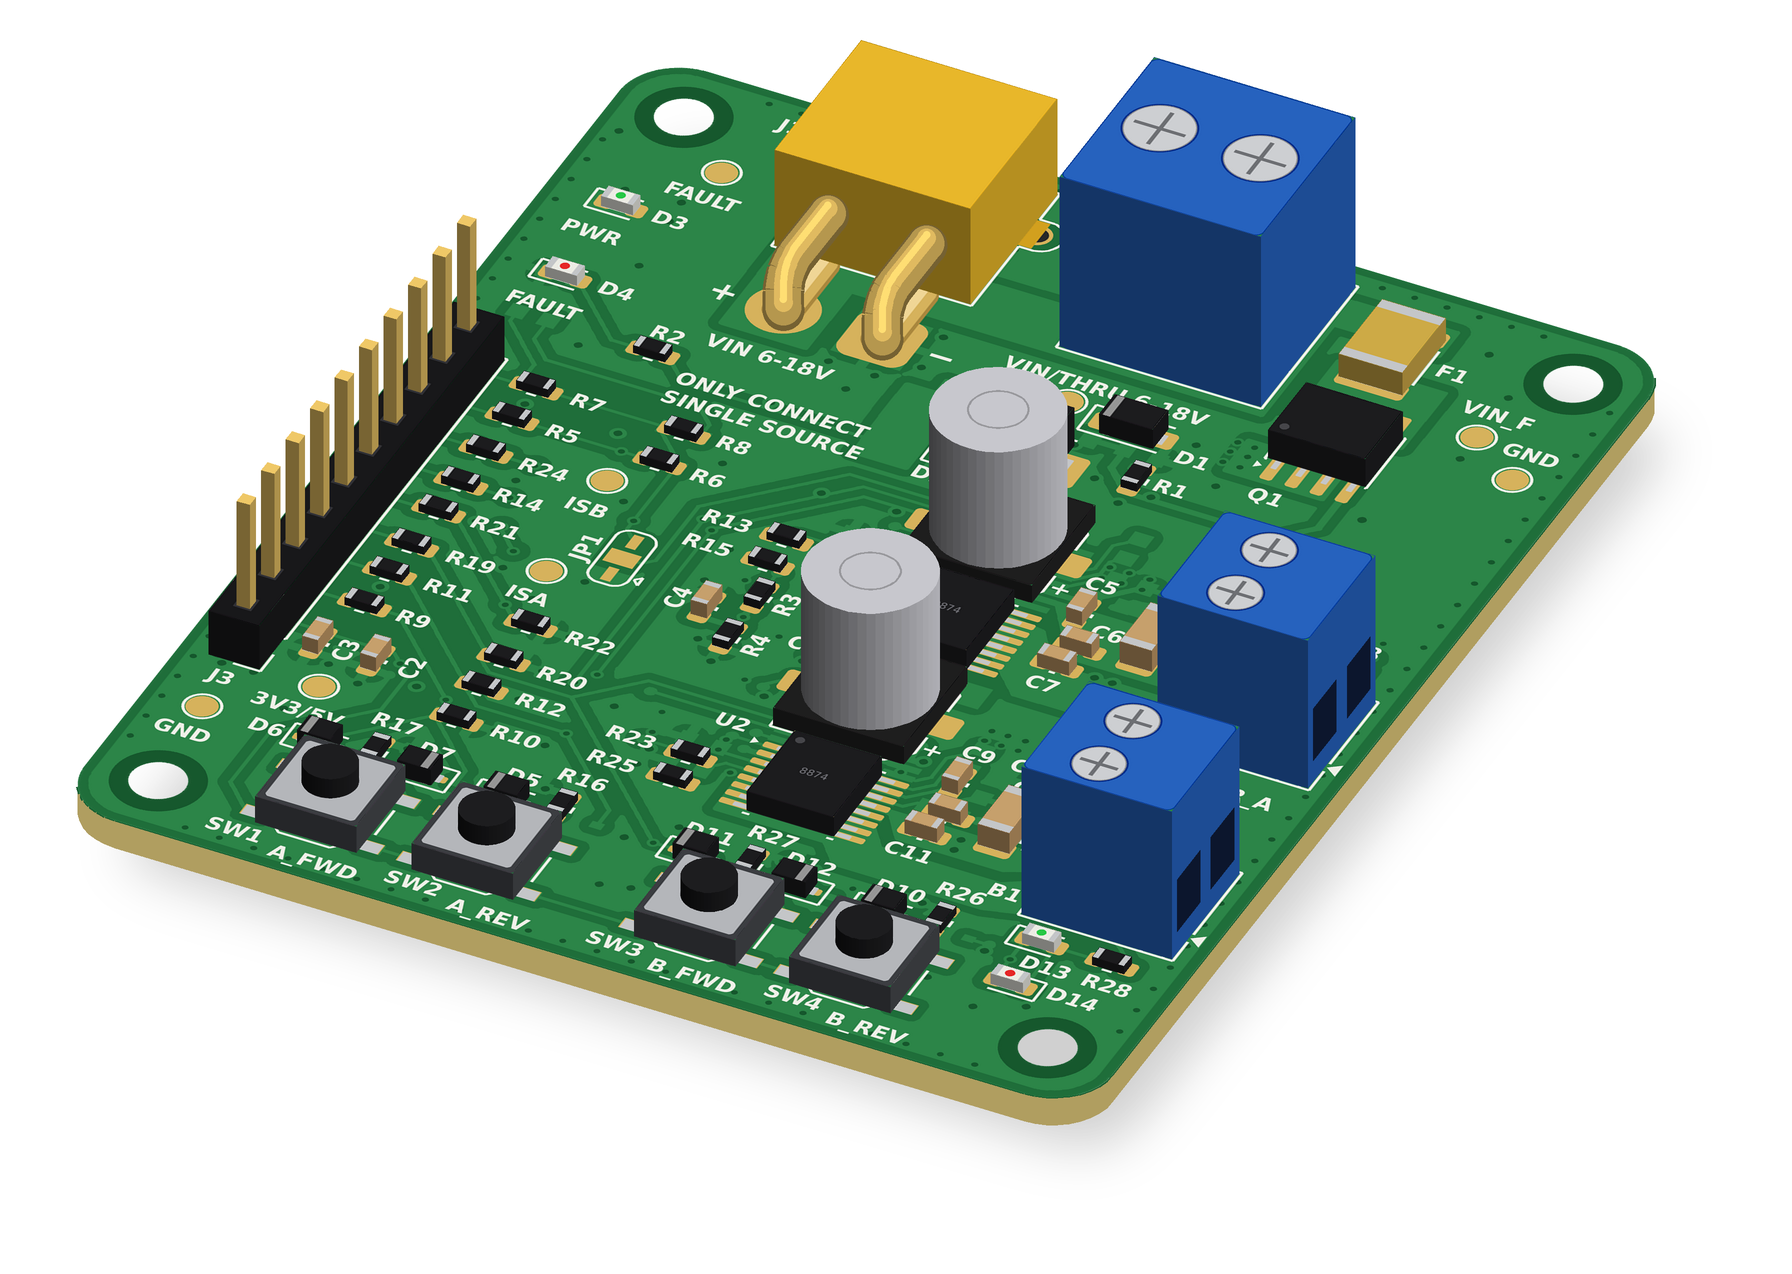
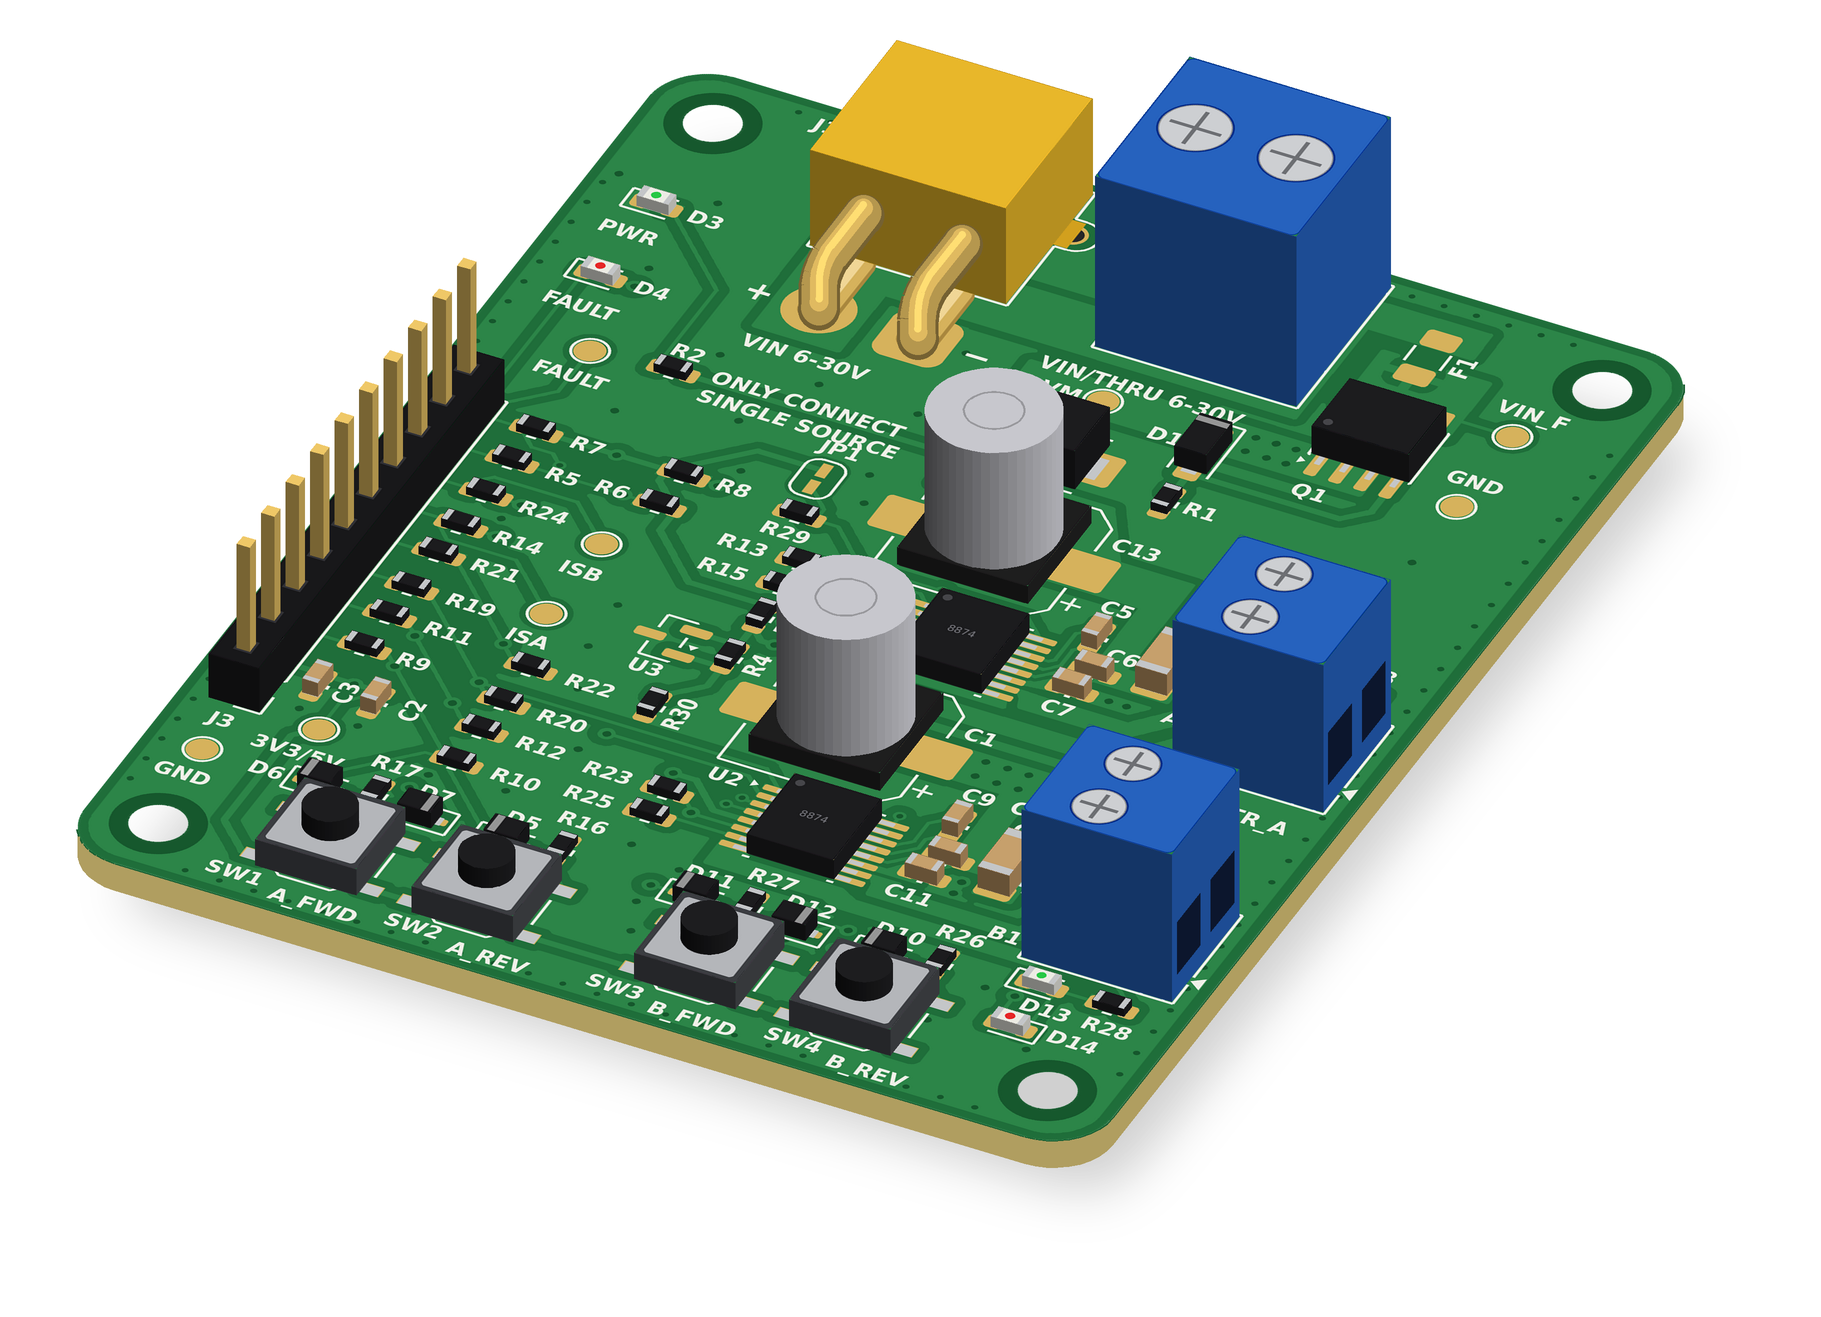
Docs: board images from revised PCB; F1 is a fast-acting high-I2t fuse
Claude-Session: https://claude.ai/code/session_01XXg2TNx117Z3k1hh7we5dc

Changed region(s): [[0.0312, 0.0306, 0.9375, 0.8878], [0.4688, 0.0306, 0.5625, 0.0612]]

diff --git a/python/pingoblin_motor/board.py b/python/pingoblin_motor/board.py
@@ -87,7 +87,7 @@ class MotorBoard:
             a_options: Keyword arguments for motor A only (override `motor_options`).
             b_options: Keyword arguments for motor B only.
             fuse_rating: The board's continuous current rating (A), for `BOARD_OVERLOAD`.
-                The on-board 4 A slow-blow fuse allows 3 A continuously.
+                The on-board 4 A fast-acting (high I2t) fuse allows 3 A continuously.
 
         Raises:
             ConfigError: Invalid mode, voltage, names or pins, or a `fault_pin` already used

diff --git a/micropython/pingoblin_motor.py b/micropython/pingoblin_motor.py
@@ -1204,7 +1204,7 @@ class MotorBoard:
             a_options: Keyword arguments for motor A only.
             b_options: Keyword arguments for motor B only.
             fuse_rating: The board's continuous current rating (A), for `BOARD_OVERLOAD`.
-                The on-board 4 A slow-blow fuse allows 3 A continuously.
+                The on-board 4 A fast-acting (high I2t) fuse allows 3 A continuously.
 
         Raises:
             ConfigError: Invalid mode, voltage, names or pins, or a `fault_pin` already used by

diff --git a/docs/guide/board-overview.md b/docs/guide/board-overview.md
@@ -41,7 +41,7 @@ See [Test buttons and LEDs](buttons-leds.md) for how the buttons behave with a h
 | Ref | Part | Role |
 | --- | --- | --- |
 | U1, U2 | TI DRV8874 | H-bridge drivers for motors A and B |
-| F1 | 4 A slow-blow fuse | Disconnects the board if an internal fault or an over-voltage supply makes it draw excessive current. Not resettable |
+| F1 | 4 A fast-acting fuse (high I²t, tolerates inrush) | Disconnects the board if an internal fault or an over-voltage supply makes it draw excessive current. Not resettable |
 | Q1 | P-channel MOSFET | Reverse-polarity protection |
 | D2 | SMBJ30A | Surge suppressor on the motor supply |
 | C13, C1 | 220 µF (×2) | Bulk capacitors, one beside each driver (U1, U2) |

diff --git a/docs/guide/specifications.md b/docs/guide/specifications.md
@@ -8,7 +8,7 @@
 | Default state | Drivers awake (nSLEEP pulled high); EN and PH pulled low, so motors are braked |
 | Motor channels | 2, bidirectional |
 | Continuous current per motor | About 1.5–2 A at 25 °C (to be confirmed by prototype thermal tests) |
-| Total board current | 3 A continuous (4 A slow-blow fuse, not resettable) |
+| Total board current | 3 A continuous (4 A fast-acting fuse, not resettable) |
 | Current limit per motor | About 3.0 A, fixed (independent of VLOGIC) |
 | Current-sense output | 0.675 V per amp |
 | PWM frequency | Up to 100 kHz (20 kHz recommended, which is above human hearing) |
